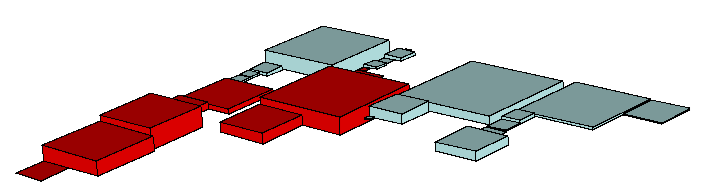
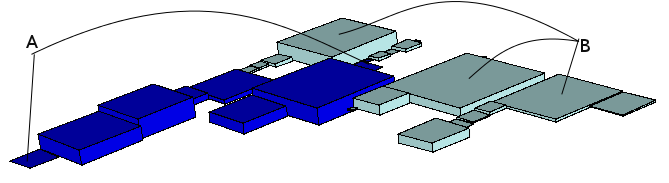
minor changes                             BASINGA!

diff --git a/main.tex b/main.tex
@@ -373,7 +373,7 @@ and a previous scripts pane, to remember prior launched examples
 on the easel. % add commands to manage perspective
    
 
-\paragraph{Layout}: %:still working on it
+\paragraph{Layout}:
 The main objective of having a 3D engine is to have richer 
 \emph{layouts} capable of representing the same \emph{models} 
 that can be generated in 2D, but with the posibility of adding 
@@ -509,10 +509,24 @@ view applyLayout: (KLBlockLayout new
 		using: (KLCube new width: #numberOfMethods; 
 							height: #numberOfInstanceVariables; 
 							depth:#numberOfMethods;
-							fillColor: Color red;
+							fillColor: Color blue;
 							yourself)})
 \end{lstlisting}
 \fig{}{1.0}{figure10.png}{Compiler Kernel and ParseNodes}
+This kind visualization expresses useful information when looking for
+smelly code or wanting to do some refactoring. The code before give 3 
+conclutions, among others, that come directly from figure 10:
+every class of these 2 packages are highly functional, they are not
+meant to actually represent a structure with lots of variables, which
+is consistent with their real purpose. The \emph{ParseNodes} package
+functionalities are concentrated on 3 classes (B in the figure), 
+again consist with already known information (\emph{ParseNode}, 
+\emph{BlockNode} and \emph{MessageNode} classes). Also the {Kernel} 
+package contain clases with no instance variables at all (A in the figure),
+wich is also consistent with verifiable information (every subclass of 
+\emph{BytecodeEncoder} have no instance variables. 
+
+
 %=======
 \subsection{Scatterplot}
 Tipically, to represent code properties directly as the dimentions
@@ -536,6 +550,14 @@ view applyLayout:
 		z: #numberOfMethods) "the, not visible here, green line" 
 \end{lstlisting}
 \fig{}{0.6}{figure11.png}{The Klotz Kernel Package}
+This visualization show some tendencies (figure 11):
+most classes in the package are quite simple and similar,
+with few attributes and instance variables (low x and y), and 
+also most of those with lots of attributes and instance variables
+are also those with lots of methods, high depth (high z). Knowing
+this tendencies its easy to tell which classes hold great 
+responsibility on the system.
+
 
 
 
